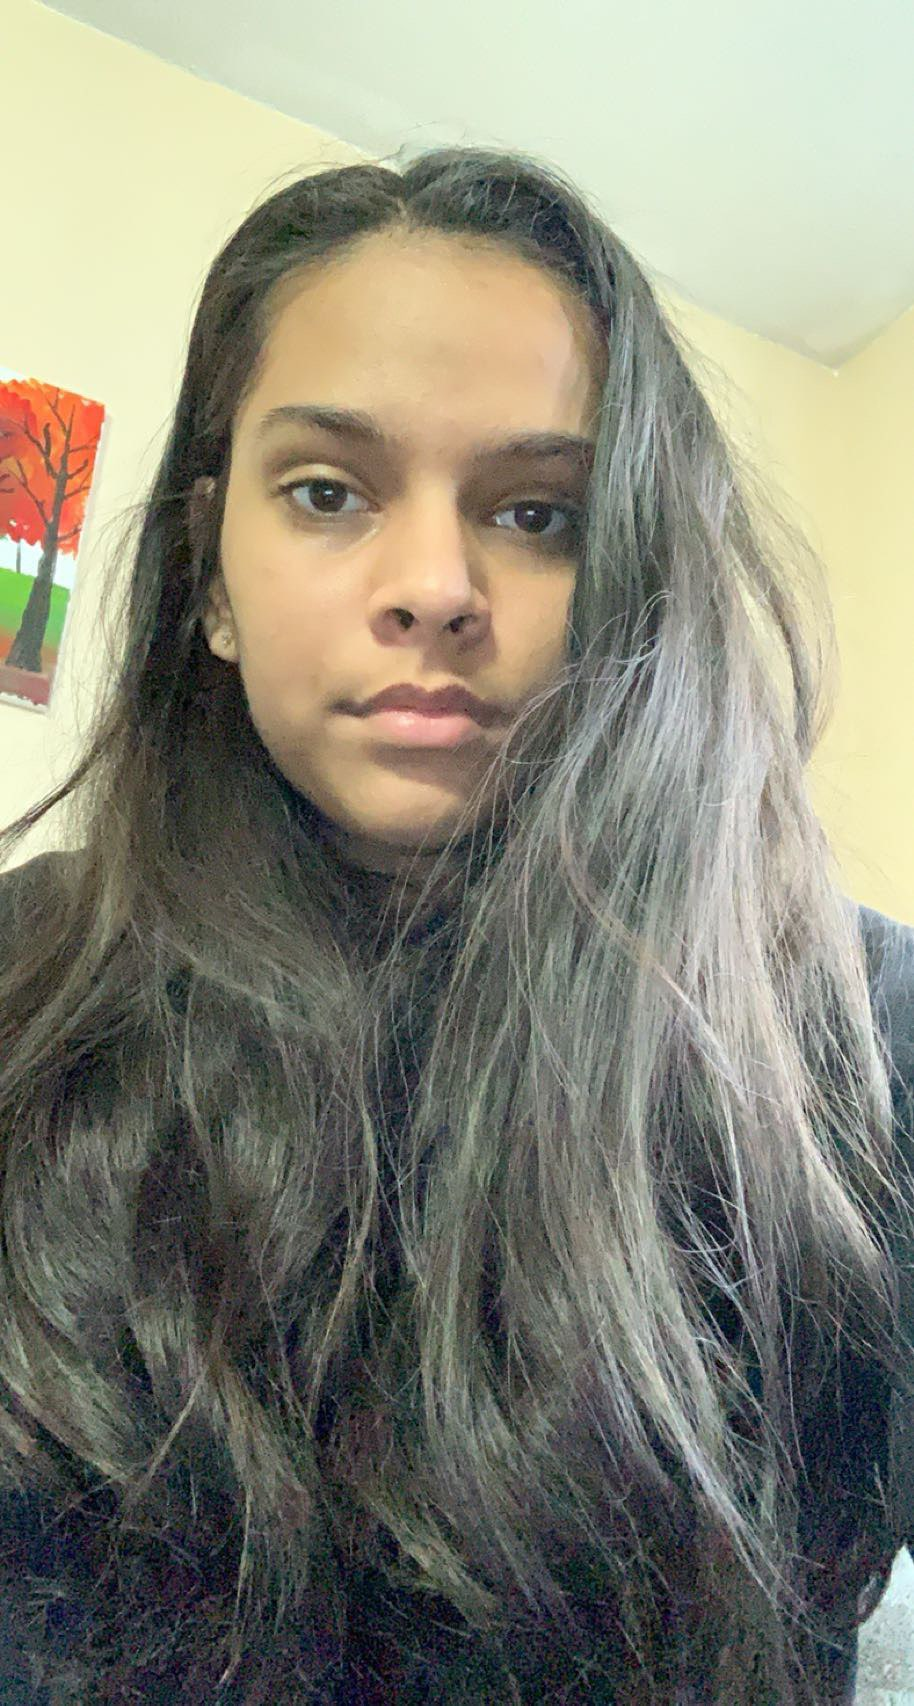
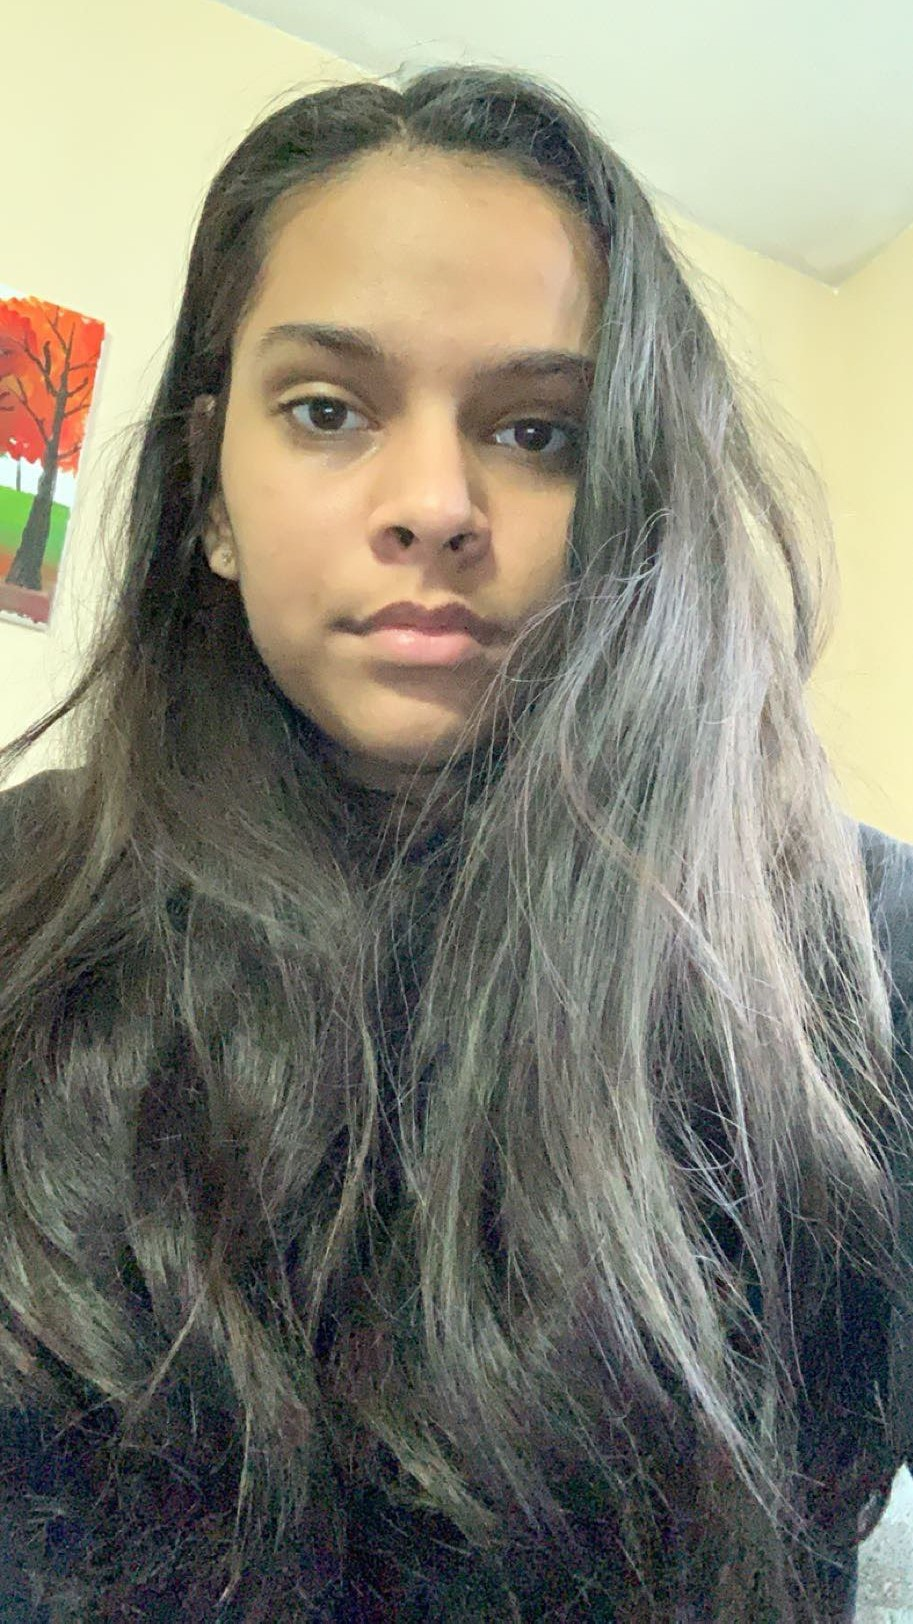
added director images

diff --git a/team.html b/team.html
@@ -105,7 +105,7 @@
                     <div class="6u 12u(narrower)">
 
 			            <section class="box special">
-			                <span class="image featured"><img src="images/calvin.jpg" alt=""></span>
+			                <span class="image featured"><img src="images/calvin.PNG" alt=""></span>
 			                <h2>Calvin Zhang</h2>
                             <h3>Director of IT</h3>
 			                <p><b>Email:</b> calvin.zhang@stuysu.org</p>
